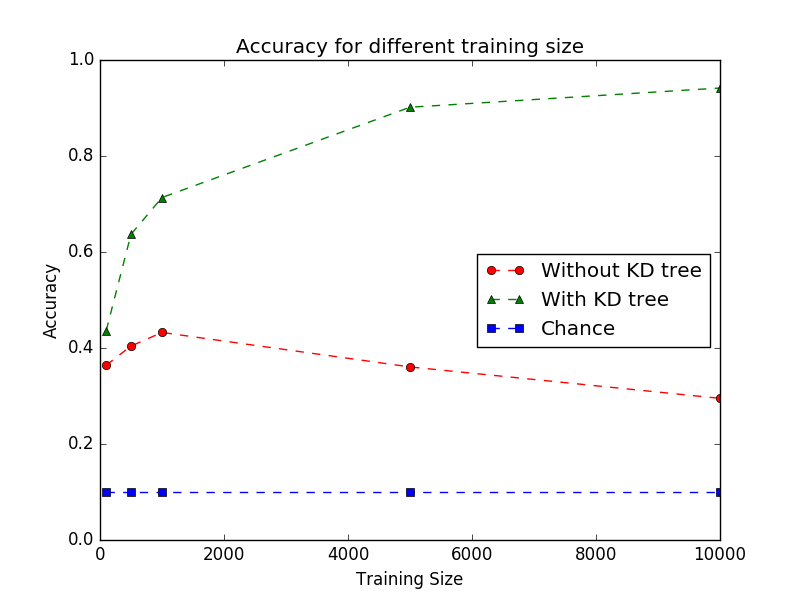
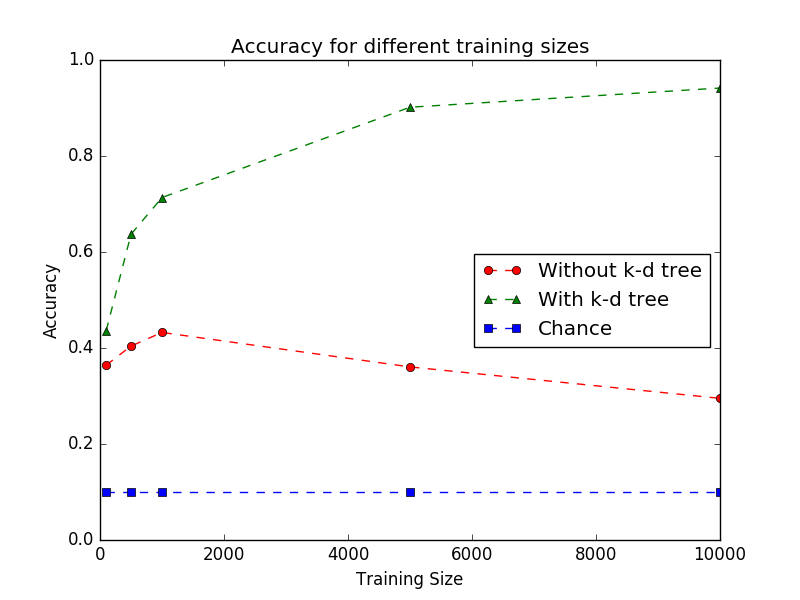
Update learning curve

Changed region(s): [[0.5938, 0.42, 0.8125, 0.57], [0.2812, 0.06, 0.75, 0.09]]

diff --git a/source/report.py b/source/report.py
@@ -10,11 +10,11 @@ if __name__ == "__main__":
     chanceAccuracy = [0.1 for i in range(len(dataSize))] 
     # chanceAccuracy = [0.1, 0.1, 0.1, 0.1, 0.1]
     fig = plt.figure(1)
-    plt.title("Accuracy for different training size")
+    plt.title("Accuracy for different training sizes")
     plt.ylabel("Accuracy")
     plt.xlabel("Training Size")
-    plt.plot(dataSize, postPruningAccuracy, 'ro--', label='Without KD tree')
-    plt.plot(dataSize, postPruningWithKdAccuracy, 'g^--', label='With KD tree')
+    plt.plot(dataSize, postPruningAccuracy, 'ro--', label='Without k-d tree')
+    plt.plot(dataSize, postPruningWithKdAccuracy, 'g^--', label='With k-d tree')
     plt.plot(dataSize, chanceAccuracy, 'bs--', label='Chance')
     # plt.plot(dataSize, prePruningAccuracy, 'bs--', label='Pre-pruning')
     plt.ylim(ymin=0)
